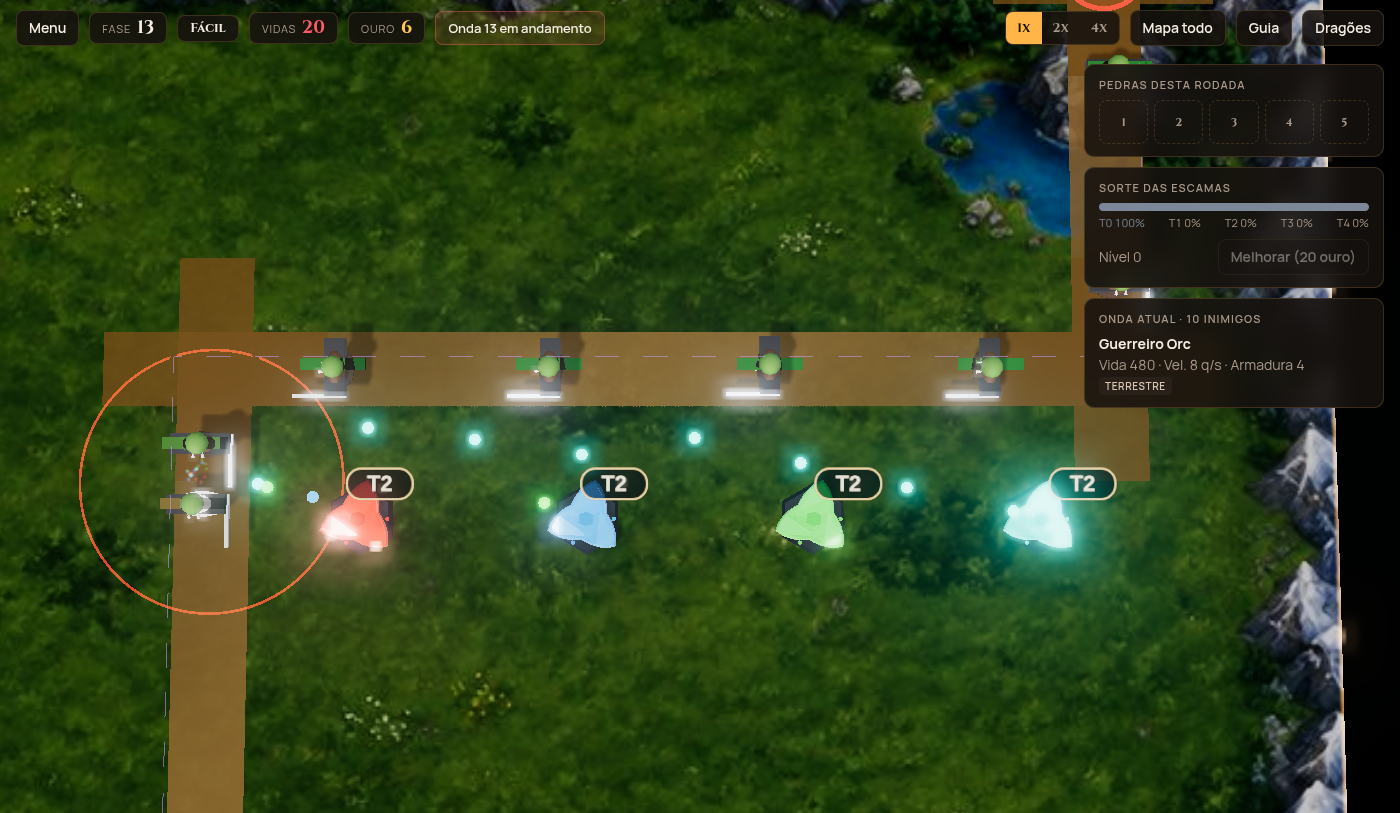
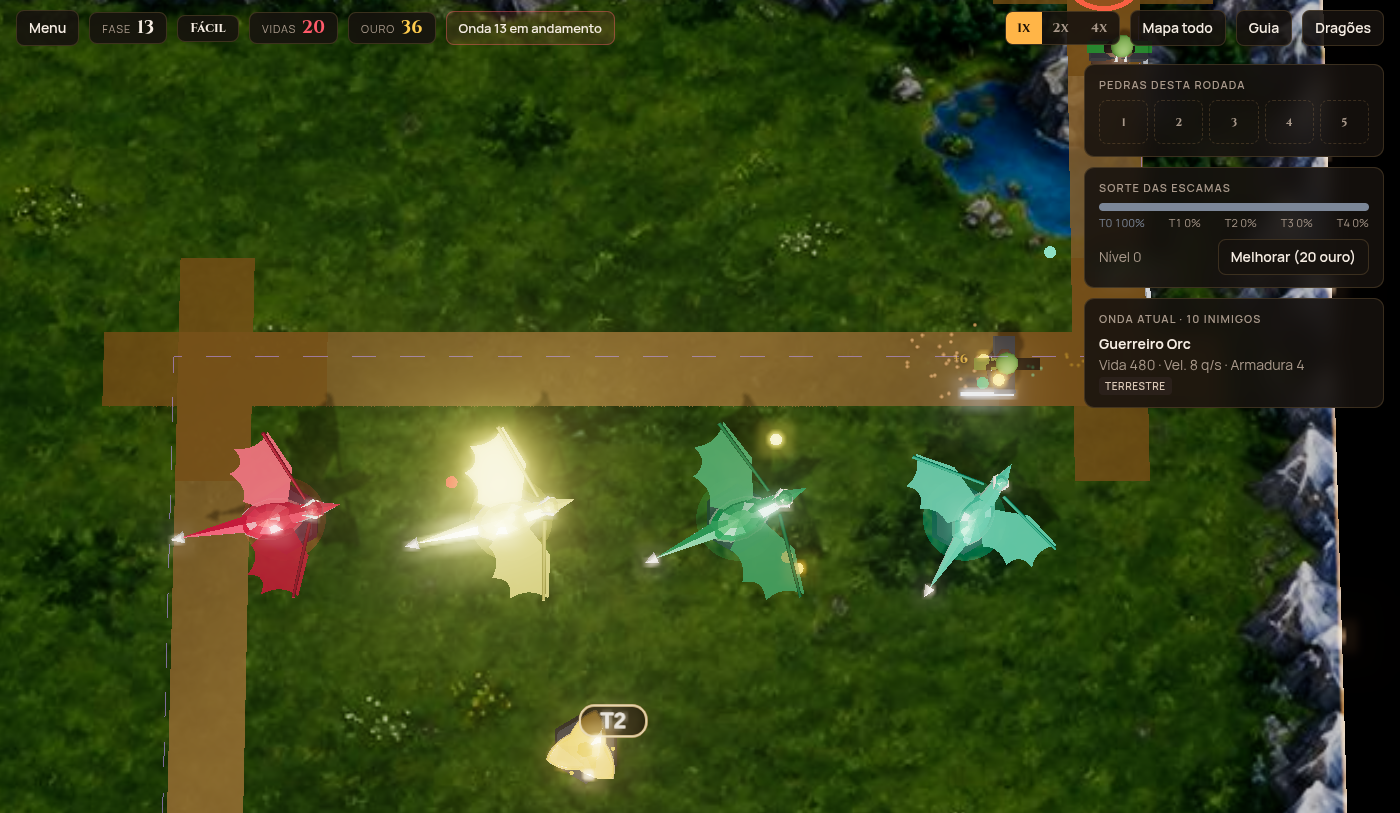
Ataque por elemento só nos dragões; nome em inglês Dragonscale TD; resumo da noite

diff --git a/src/attack-fx.js b/src/attack-fx.js
@@ -102,6 +102,15 @@ export class AttackFx {
     const game = this.view.game, ps = game.projectiles;
     let used = 0;
     for (const p of ps) {
+      if (p.def.base) {
+        // Escamas: o tiro de sempre (bolinha na cor da escama). Só os dragões ganham ataque por elemento.
+        const o = this.orb(used++), en0 = game.enemies.get(p.target);
+        o.shard.visible = false; o.orb.visible = true;
+        o.orb.position.set(U(p.x), en0 && en0.type.air ? 2.6 : 1.3, U(p.y));
+        o.orb.scale.setScalar(0.16);
+        o.mat.color.setHex(p.def.color).multiplyScalar(1.6); o.mat.opacity = 1;
+        continue;
+      }
       const el = ELEMENT_LOOK[elementOf(p.def)];
       const en = game.enemies.get(p.target);
       const y = en && en.type.air ? 2.6 : 1.3;
@@ -191,6 +200,7 @@ export class AttackFx {
 
   // Impacto no inimigo, com a cara do elemento.
   hit(f) {
+    if (!f.def || f.def.base) { this.view.burst(U(f.x), f.air ? 2.6 : 1.1, U(f.y), f.color, f.crit ? 18 : 5, f.crit ? 5 : 2.5, 0.3); return; }
     const el = ELEMENT_LOOK[elementOf(f.def)];
     const x = U(f.x), z = U(f.y), y = f.air ? 2.6 : 1.1;
     const n = f.crit ? 40 : 22;

diff --git a/CLAUDE.md b/CLAUDE.md
@@ -1,6 +1,6 @@
 # O Covil dos Dragões TD (TD-DragonScale)
 
-Nome do jogo (decidido em 22/11): **O Covil dos Dragões TD** em português e **Dragons Lair TD** em inglês (antigo: Ninho dos Dragões).
+Nome do jogo (decidido em 22/11): **O Covil dos Dragões TD** em português e **Dragonscale TD** em inglês (antigo: Ninho dos Dragões; "Dragons Lair TD" foi descartado por ser marca de outro jogo).
 
 Tower defense de dragões no navegador (Three.js + Vite). Destino final: Play Store e outras lojas; o navegador é só para testar.
 O dono não é programador: fale em português simples, sem termos técnicos, e mostre fotos (prints) antes de decidir algo visual.
@@ -31,7 +31,7 @@ O dono não é programador: fale em português simples, sem termos técnicos, e 
 
 ## Pendências (22/11/2026, noite, branch `auditoria-1`, ainda não publicado)
 - Feito na noite de 22/11: tarefas 2–7 da auditoria (plano `docs/superpowers/plans/2026-11-22-auditoria-1.md`), pequenos erros (veneno/aura no dano, recorde na fase 1, plural, inimigos parados ao sair, clique em voadores, destaque da rodada, vida 15/14) e o nome novo.
-1. Ataque por elemento: 3 ideias em `docs/ataque-ideias/` (1 projéteis, 2 feixes, 3 sopro), testáveis com `?ataque=1|2|3` na URL (`src/attack-fx.js`). Aguardando o dono escolher.
+1. Ataque por elemento (**só nos dragões**; escamas ficam com o tiro de hoje): 3 ideias em `docs/ataque-ideias/` (1 projéteis, 2 feixes, 3 sopro), testáveis com `?ataque=1|2|3` na URL (`src/attack-fx.js`). Aguardando o dono escolher.
 2. Decisão pendente: chocar dragão só com torres antigas faz as 5 pedras novas virarem rocha.
 3. Revisão final do branch antes de publicar; dragão sentado na construção / voando na onda.
 4. Ranking online com Firebase (Parte 2) — deixado para depois pelo dono.

diff --git a/docs/RESUMO-2026-11-22.md b/docs/RESUMO-2026-11-22.md
@@ -41,3 +41,10 @@ Tudo o que fizemos hoje no Ninho dos Dragões. O jogo publicado está em https:/
 2. Ataque diferente por elemento (fogo, veneno, gelo…).
 3. Ranking online (Firebase) — você cria a conta grátis.
 4. Pequenos erros apontados pelos auditores.
+
+## Noite de 22/11 (branch `auditoria-1`, enviada ao GitHub, ainda não publicada no site)
+- **Nome:** "O Covil dos Dragões TD" no jogo (português) e "Dragonscale TD" em inglês ("Dragons Lair TD" descartado: é marca de outro jogo).
+- **Melhorias da auditoria feitas:** fases infinitas repetem 26–50 e chefes 20/30 (vida ×2) e 50 (×10) mais fortes; "Trocar esta pedra" (50/100/200 ouro, só com sorte no máximo); faixa de aviso de ondas invisíveis/imunes; layout para celular deitado; 3 dicas na primeira partida com fila fantasma no caminho; festa ao chocar dragão.
+- **Erros corrigidos:** dano de veneno/fogo no cartão, "Novo recorde" ao sair na fase 1, "1 defensor", inimigos parados ao sair, clique em voadores, destaque da rodada, "Vida 15/14".
+- **Ataque por elemento (só dragões):** 3 ideias com fotos em `docs/ataque-ideias/` — 1 projéteis, 2 feixes, 3 sopro. Ver ao vivo com `?ataque=1`, `2` ou `3`. Aguardando escolha.
+- **Falta:** escolher o ataque; decidir o caso "chocar dragão só com torres antigas"; revisão geral; publicar no site (enviar para a `main`); ranking online (adiado).

diff --git a/RESUMO.md b/RESUMO.md
@@ -1,6 +1,6 @@
 # Resumo do projeto: O Covil dos Dragões TD
 
-Nova versão, com gráficos atuais, do Gem Tower Defense (https://www.gemtowerdefense.com/). A mecânica é a mesma do original e o tema mudou para dragões. Nome: "O Covil dos Dragões TD" (inglês: "Dragons Lair TD"); antes se chamava "Ninho dos Dragões".
+Nova versão, com gráficos atuais, do Gem Tower Defense (https://www.gemtowerdefense.com/). A mecânica é a mesma do original e o tema mudou para dragões. Nome: "O Covil dos Dragões TD" (inglês: "Dragonscale TD"); antes se chamava "Ninho dos Dragões".
 
 Jogável no navegador: https://claude.ai/artifact/9efNqw66myyqXt5FRsx4jk
 
